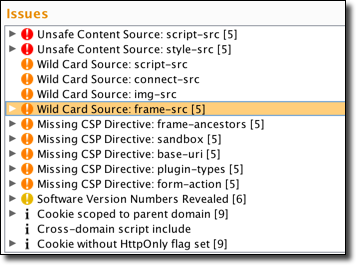
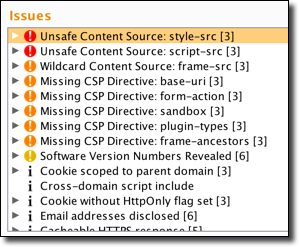
Fixed bugs in InsecureContentCheck

diff --git a/burp_csp_bypass.py b/burp_csp_bypass.py
@@ -10,6 +10,7 @@ possibly weaknesses and bypasses in the policy.
 from burp import IBurpExtender
 from burp import IScannerCheck
 
+from urlparse import urlparse
 from httplib import HTTPResponse
 from StringIO import StringIO
 
@@ -59,11 +60,12 @@ class ContentSecurityPolicyScan(IScannerCheck):
         This is a callback method for Burp, and is used to cleanup duplicate
         findings.
         @return An indication of which issue(s) should be reported in the main
-        Scanner results. The method should return <code>-1</code> to report the
-        existing issue only, <code>0</code> to report both issues, and
-        <code>1</code> to report the new issue only.
+        Scanner results.
+        <code>-1</code> to report the existing issue only
+        <code>0</code> to report both issues
+        <code>1</code> to report the new issue only
         """
-        if existingIssue.getIssueName() == newIssue.getIssueName() and existingIssue.getUrl() == newIssue.getUrl():
+        if existingIssue.getIssueName() == newIssue.getIssueName():
             return -1
         else:
             return 0
@@ -142,8 +144,21 @@ class ContentSecurityPolicyScan(IScannerCheck):
         return issues
 
     def insecureContentSourceCheck(self, csp, burpHttpReqResp):
-        """ Check content sources for insecure `http:' sources """
+        """ Check content sources that allow insecure network protocols """
         issues = []
+        for directive, sources in csp.iteritems():
+            if sources is None:
+                continue
+            for src in sources:
+                if src == HTTP or urlparse(src).scheme in ["http", "ws"]:
+                    insecureContent = InsecureContentDirective(
+                        httpService=burpHttpReqResp.getHttpService(),
+                        url=self._getUrl(burpHttpReqResp),
+                        httpMessages=burpHttpReqResp,
+                        severity="High",
+                        confidence="Certain",
+                        directive=directive)
+                    issues.append(insecureContent)
         return issues
 
     def missingDirectiveCheck(self, csp, burpHttpReqResp):
@@ -183,26 +198,22 @@ class ContentSecurityPolicyScan(IScannerCheck):
         return issues
 
     def knownBypassCheck(self, csp, burpHttpReqResp):
-        """
-        Parses the CSP for known bypasses, we mainly just look for arbitrary
-        `script-src' bypasses.
-        """
+        """ Parses the CSP for known bypasses """
         issues = []
         for directive, knownBypasses in CSP_KNOWN_BYPASSES.iteritems():
             bypasses = self._bypassCheckDirective(csp, directive, knownBypasses)
             for bypass in bypasses:
-                bypassIssue = self._createKnownBypassIssue(directive, bypass,
-                                                           burpHttpReqResp)
+                bypassIssue = self._createBypassIssue(directive, bypass, burpHttpReqResp)
                 issues.append(bypassIssue)
         return issues
 
-    def _createKnownBypassIssue(self, directive, bypass, burpHttpReqResp):
+    def _createBypassIssue(self, directive, bypass, burpHttpReqResp):
         """ Creates the KnownCSPBypass issue object """
         knownBypass = KnownCSPBypass(
             httpService=burpHttpReqResp.getHttpService(),
             url=self._getUrl(burpHttpReqResp),
             httpMessages=burpHttpReqResp,
-            severity="Medium",
+            severity="High",
             confidence="Certain",
             directive=directive,
             bypass=bypass)
@@ -215,7 +226,7 @@ class ContentSecurityPolicyScan(IScannerCheck):
         """
         bypasses = []
         for src in csp[directive]:
-            if src.startswith("'") or src in ["http:", "https:"]:
+            if src.startswith("'") or src in [HTTP, HTTPS]:
                 continue  # We only care about domains
             for domain, payload in knownBypasses:
                 if csp_match_domains(src, domain):

diff --git a/burp_scanner_issues.py b/burp_scanner_issues.py
@@ -250,7 +250,7 @@ class KnownCSPBypass(BaseCSPIssue):
         self._bypass = bypass
 
     def getIssueName(self):
-        return "Known CSP Bypass for %s" % self._directive
+        return "Known CSP Bypass: %s" % self._directive
 
     def getIssueBackground(self):
         return "Issue background"
@@ -259,7 +259,13 @@ class KnownCSPBypass(BaseCSPIssue):
         return "Remediation background"
 
     def getIssueDetail(self):
-        return "Issue details"
+        return """
+A known bypass exists in the %s directive for the domain "%s"
+
+Example Payload: %s
+""" % (self._directive, self._bypass[0], self._bypass[1])
 
     def getRemediationDetail(self):
-        return "Remediation details"
+        return """
+Remove the content source \"%s\" domain from your %s CSP directive.
+""" % (self._bypass[0], self._directive)
